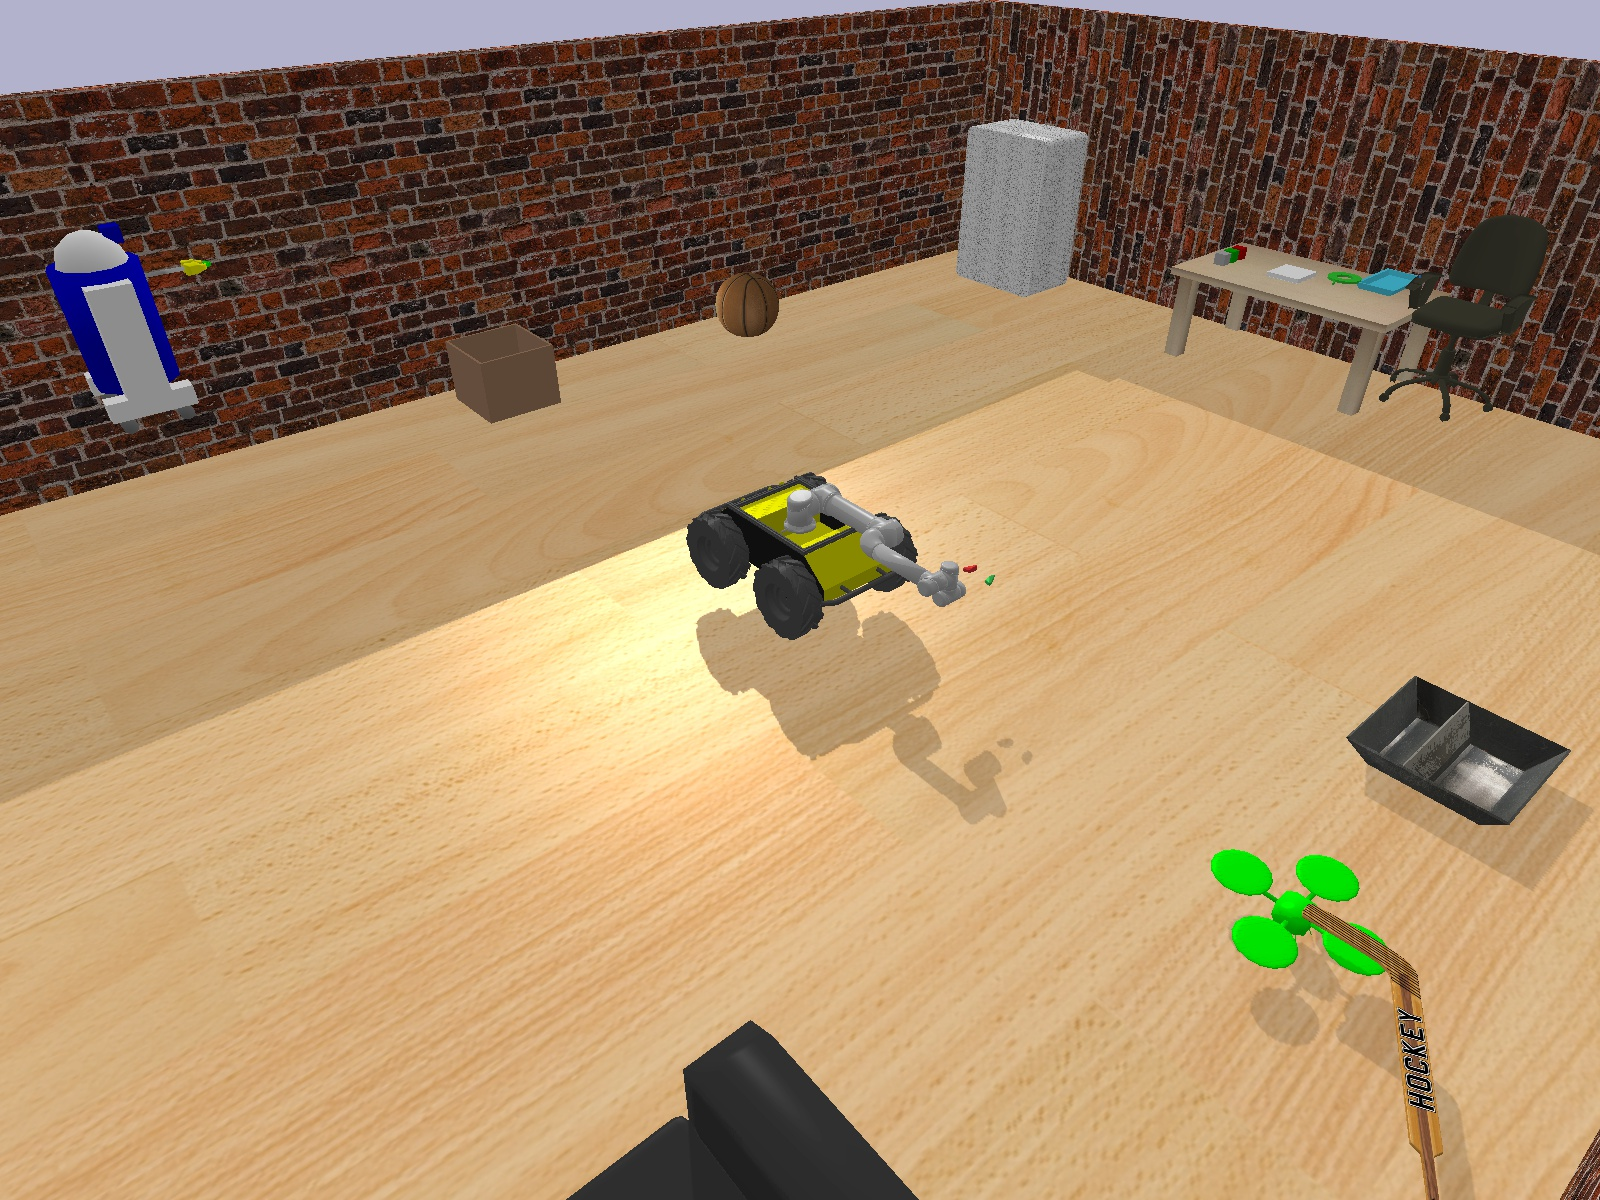
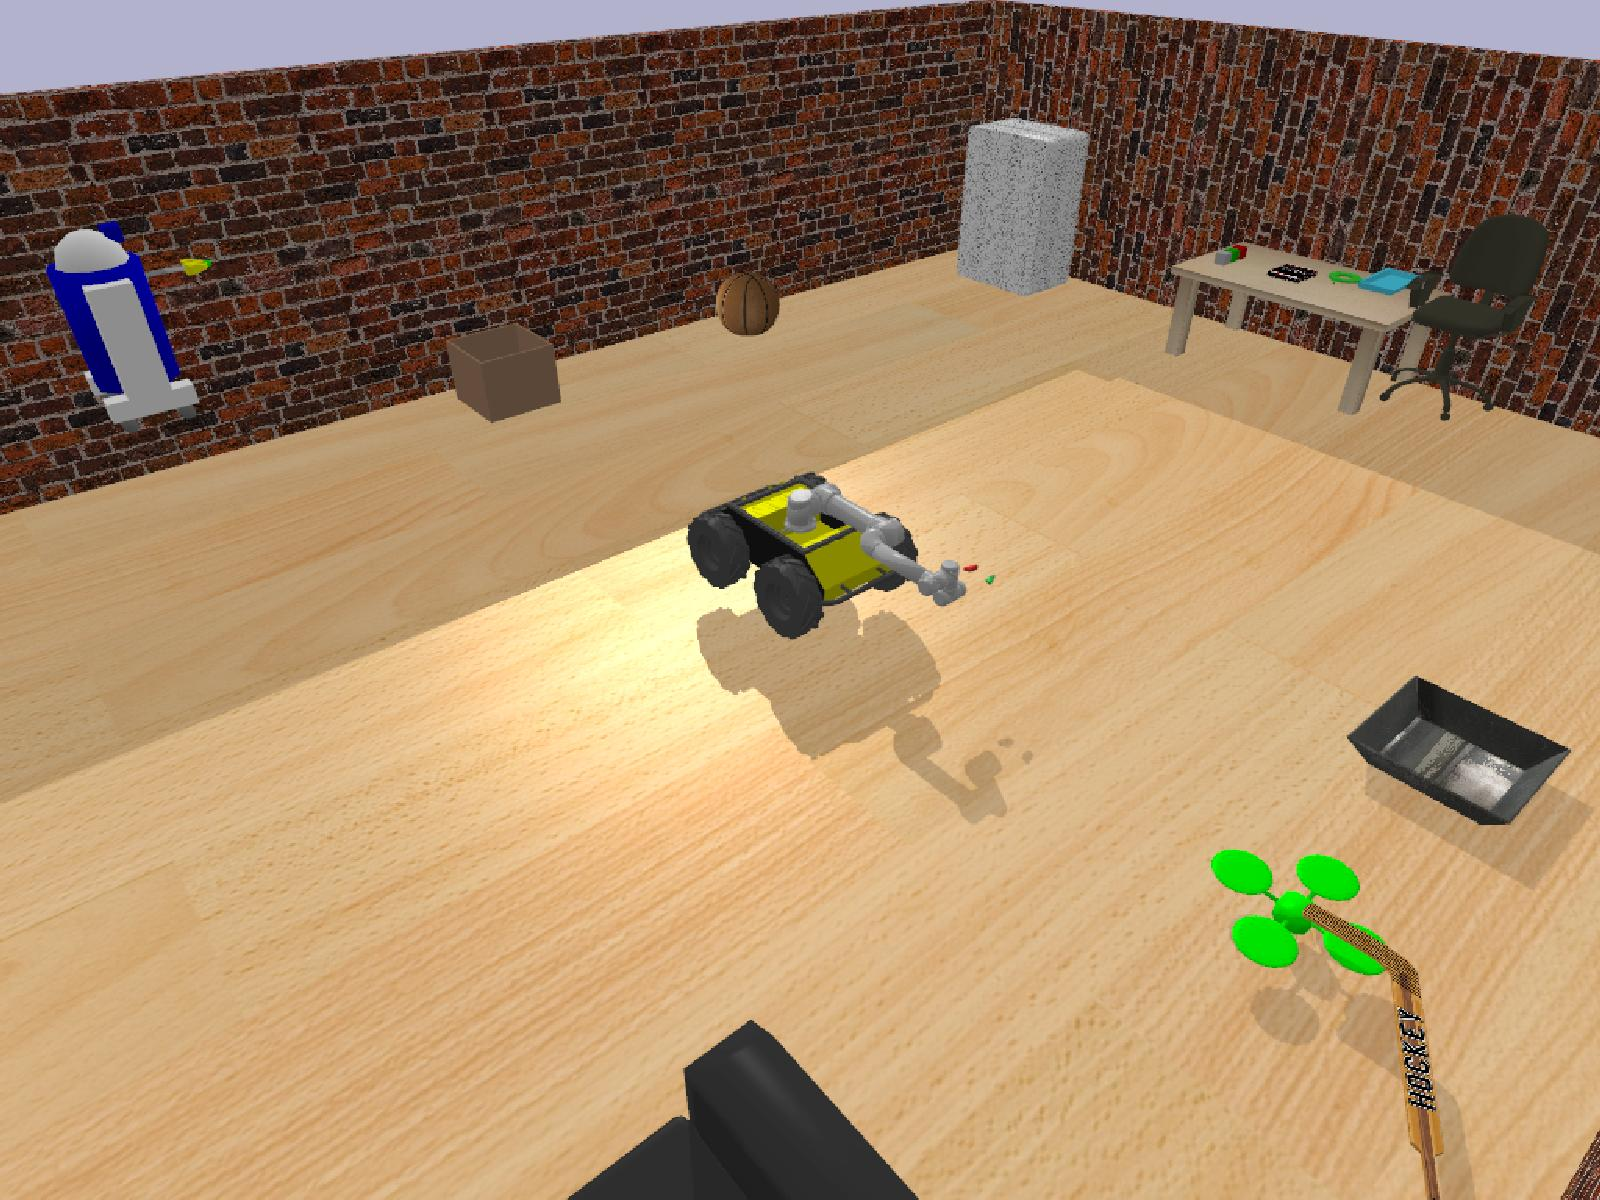
fixed undo bugs

diff --git a/PyBullet/src/utils.py b/PyBullet/src/utils.py
@@ -165,7 +165,8 @@ def restoreOnKeyboard(world_states, x1, y1, o1):
         print("Pressed R")
         if len(world_states) != 0:
             print("Restoring state")
-            id1, x, y, o = world_states.pop()
+            world_states.pop()
+            id1, x, y, o = world_states[-1]
             p.restoreState(stateId=id1)
             # q=p.getQuaternionFromEuler((0,0,0))
             # p.resetBasePositionAndOrientation(([0, 0, 0], q)) # Get robot to home when undo
@@ -176,8 +177,10 @@ def restoreOnInput(world_states, x1, y1, o1):
     """
     Restore to last saved state when this function is called
     """
+    print(world_states)
     if len(world_states) != 0:
-        id1, x, y, o = world_states.pop()
+        world_states.pop()
+        id1, x, y, o = world_states[-1]
         p.restoreState(stateId=id1)
         # q=p.getQuaternionFromEuler((0,0,0))
         # p.resetBasePositionAndOrientation(([0, 0, 0], q)) # Get robot to home when undo
@@ -312,4 +315,4 @@ def saveImage(lastTime, imageCount, display, ax, o1, cam, dist, yaw, pitch, camT
 def deleteAll(path):
     filesToRemove = [os.path.join(path,f) for f in os.listdir(path)]
     for f in filesToRemove:
-        os.system("rm -rf " + f) 
+        os.remove(f) 

diff --git a/PyBullet/app.py b/PyBullet/app.py
@@ -57,18 +57,12 @@ def simulator(queue_from_webapp_to_simulator, queue_from_simulator_to_webapp):
     queue_from_simulator_to_webapp.put(True)
     print ("Waiting")
     husky_ur5.firstImage()
-    called_undo_before = False
     while True:
         inp = queue_from_webapp_to_simulator.get()
         if ("rotate" in inp or "zoom" in inp or "toggle" in inp):
             husky_ur5.changeView(inp["rotate"])
         elif "undo" in inp:
-            if (not called_undo_before):
-                husky_ur5.undo()
-                husky_ur5.undo()
-                called_undo_before = True
-            else:
-                husky_ur5.undo()
+            husky_ur5.undo()
         else:
             husky_ur5.execute(inp)
             called_undo_before = False
